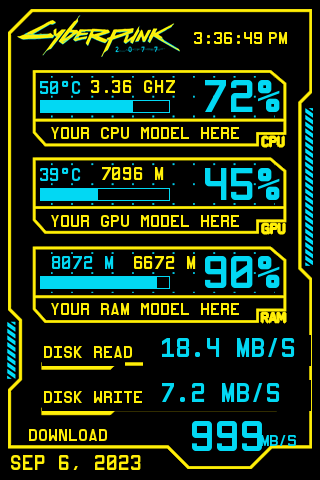
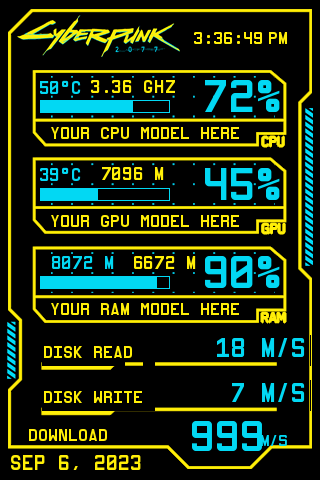
Add themed rate formatting and update theme.yaml for display settings

Changed region(s): [[0.4688, 0.6875, 0.9688, 0.875], [0.8438, 0.9062, 0.9375, 0.9375]]

diff --git a/library/stats.py b/library/stats.py
@@ -122,6 +122,50 @@ def display_themed_value(theme_data, value, min_size=0, unit=''):
     )
 
 
+def _format_themed_rate(theme_data, rate):
+    decimals = int(theme_data.get("DECIMALS", 1))
+    max_digits = theme_data.get("MAX_VALUE_DIGITS")
+
+    if max_digits:
+        max_digits = int(max_digits)
+        threshold = 10 ** max_digits
+        units = ("B", "K", "M", "G", "T", "P", "E")
+        value = max(float(rate), 0.0)
+        unit_index = 0
+        while value >= threshold and unit_index < len(units) - 1:
+            value /= threshold
+            unit_index += 1
+        rounded_value = round(value, decimals)
+        while rounded_value >= threshold and unit_index < len(units) - 1:
+            value /= threshold
+            unit_index += 1
+            rounded_value = round(value, decimals)
+        number = f"{rounded_value:.{decimals}f}"
+        symbol = units[unit_index]
+    else:
+        formatted = bytes2human(rate, f"%(value).{decimals}f %(symbol)s")
+        number, symbol = formatted.split(" ", 1)
+
+    if theme_data.get("BYTE_UNITS", False):
+        unit = "B/s" if symbol == "B" else f"{symbol}B/s"
+    else:
+        unit = f"{symbol}/s"
+    return number, unit
+
+
+def display_themed_rate(theme_data, rate):
+    number, unit = _format_themed_rate(theme_data, rate)
+    if "VALUE" in theme_data or "UNIT" in theme_data:
+        display_themed_value(theme_data.get("VALUE", {}), number)
+        display_themed_value(theme_data.get("UNIT", {}), unit)
+    else:
+        display_themed_value(
+            theme_data=theme_data,
+            value=f"{number} {unit}",
+            min_size=10
+        )
+
+
 def display_themed_percent_value(theme_data, value):
     display_themed_value(
         theme_data=theme_data,
@@ -697,11 +741,7 @@ class Disk:
 
         for key, rate in (("READ_RATE", read_rate), ("WRITE_RATE", write_rate)):
             rate_theme_data = disk_theme_data.get(key, {}).get("TEXT", {})
-            display_themed_value(
-                theme_data=rate_theme_data,
-                value=bytes2human(rate, '%(value).1f %(symbol)s/s'),
-                min_size=10
-            )
+            display_themed_rate(rate_theme_data, rate)
 
 
 class Net:
@@ -752,24 +792,7 @@ class Net:
 
     @staticmethod
     def _show_themed_tax_rate(theme_data, rate):
-        decimals = theme_data.get("DECIMALS", 1)
-        formatted_rate = bytes2human(rate, f"%(value).{decimals}f %(symbol)s")
-        value, symbol = formatted_rate.split(" ", 1)
-
-        if theme_data.get("BYTE_UNITS", False):
-            unit = "B/s" if symbol == "B" else f"{symbol}B/s"
-        else:
-            unit = f"{symbol}/s"
-
-        if "VALUE" in theme_data or "UNIT" in theme_data:
-            display_themed_value(theme_data.get("VALUE", {}), value)
-            display_themed_value(theme_data.get("UNIT", {}), unit)
-        else:
-            display_themed_value(
-                theme_data=theme_data,
-                value=f"{value} {unit}",
-                min_size=10
-            )
+        display_themed_rate(theme_data, rate)
 
 
 class Date:
